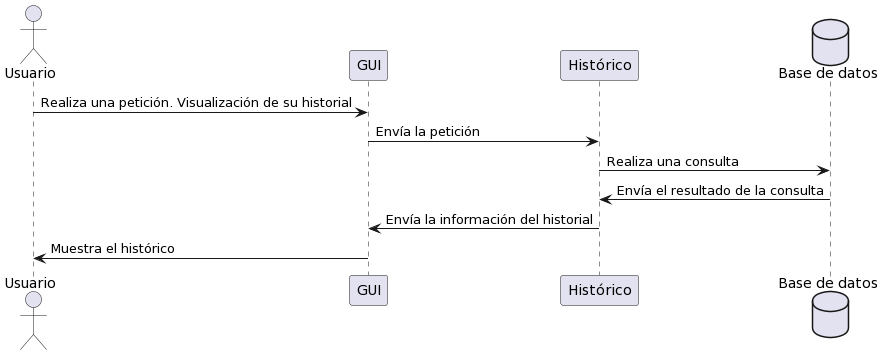
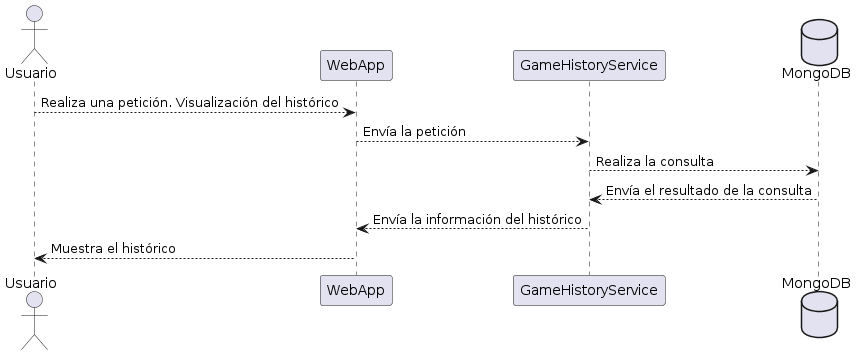
Updates

diff --git a/index.html b/index.html
@@ -465,6 +465,7 @@ body.book #toc,body.book #preamble,body.book h1.sect0,body.book .sect1>h2{page-b
 <ul class="sectlevel2">
 <li><a href="#_funcionamiento_de_las_partidas">6.1. Funcionamiento de las partidas</a></li>
 <li><a href="#_generación_de_preguntas">6.2. Generación de preguntas</a></li>
+<li><a href="#_visualización_del_histórico_y_perfil_de_usuario">6.3. Visualización del histórico y perfil de usuario</a></li>
 </ul>
 </li>
 <li><a href="#section-deployment-view">7. Vista de despliegue</a></li>
@@ -968,6 +969,13 @@ El equipo de desarrollo comprometido a materializar este proyecto está formado 
 <div class="paragraph">
 <p>Cuando la interfaz de usuario solicita una pregunta el generador de preguntas deberá realizar una consulta a Wikidata obteniendo así información para formular la pregunta y sus respuestas.
 <span class="image"><img src="./images/6_RuntimeView_GenerarPregunta.PNG" alt="Diagram"></span></p>
+</div>
+</div>
+<div class="sect2">
+<h3 id="_visualización_del_histórico_y_perfil_de_usuario">6.3. Visualización del histórico y perfil de usuario</h3>
+<div class="paragraph">
+<p>Cuando el usuario solicite visualizar el histórico se enviará una petición al GameHistoryService quien proporcionará la información al usuario.
+<span class="image"><img src="./images/6_RuntimeView_Historico.png" alt="Diagram"></span></p>
 </div>
 <div style="page-break-after: always;"></div>
 </div>
